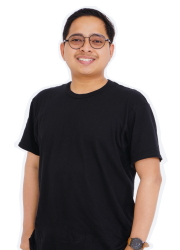
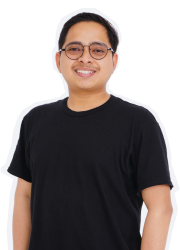
update content to all pages

diff --git a/article.html b/article.html
@@ -4,7 +4,7 @@
 <head>
   <meta charset="UTF-8">
   <meta http-equiv="X-UA-Compatible" content="IE=edge">
-  <title>Bentofolio - Bootstrap Personal Portfolio Template</title>
+  <title>Azrul'sPortfolio</title>
   <meta name="description" content="Bentofolio - Bootstrap Personal Portfolio Template">
   <meta name="viewport" content="width=device-width, initial-scale=1">
 
@@ -35,7 +35,7 @@
                     d="M0 1.5C0 1.10218 0.158035 0.720644 0.43934 0.43934C0.720644 0.158035 1.10218 0 1.5 0L9 0C9.39782 0 9.77936 0.158035 10.0607 0.43934C10.342 0.720644 10.5 1.10218 10.5 1.5V22.5C10.5 22.8978 10.342 23.2794 10.0607 23.5607C9.77936 23.842 9.39782 24 9 24H1.5C1.10218 24 0.720644 23.842 0.43934 23.5607C0.158035 23.2794 0 22.8978 0 22.5V1.5ZM13.5 1.5C13.5 1.10218 13.658 0.720644 13.9393 0.43934C14.2206 0.158035 14.6022 0 15 0L22.5 0C22.8978 0 23.2794 0.158035 23.5607 0.43934C23.842 0.720644 24 1.10218 24 1.5V9C24 9.39782 23.842 9.77936 23.5607 10.0607C23.2794 10.342 22.8978 10.5 22.5 10.5H15C14.6022 10.5 14.2206 10.342 13.9393 10.0607C13.658 9.77936 13.5 9.39782 13.5 9V1.5ZM13.5 15C13.5 14.6022 13.658 14.2206 13.9393 13.9393C14.2206 13.658 14.6022 13.5 15 13.5H22.5C22.8978 13.5 23.2794 13.658 23.5607 13.9393C23.842 14.2206 24 14.6022 24 15V22.5C24 22.8978 23.842 23.2794 23.5607 23.5607C23.2794 23.842 22.8978 24 22.5 24H15C14.6022 24 14.2206 23.842 13.9393 23.5607C13.658 23.2794 13.5 22.8978 13.5 22.5V15Z"
                     class="logo-icon" />
                 </svg>
-                <span>Bento<span class="primary">Folio</span></span>
+                <span>Azrul's<span class="primary">Portfolio</span></span>
               </a>
             </div>
             <div class="navbar-main d-flex flex-grow-1">
@@ -46,7 +46,7 @@
                       d="M0 1.5C0 1.10218 0.158035 0.720644 0.43934 0.43934C0.720644 0.158035 1.10218 0 1.5 0L9 0C9.39782 0 9.77936 0.158035 10.0607 0.43934C10.342 0.720644 10.5 1.10218 10.5 1.5V22.5C10.5 22.8978 10.342 23.2794 10.0607 23.5607C9.77936 23.842 9.39782 24 9 24H1.5C1.10218 24 0.720644 23.842 0.43934 23.5607C0.158035 23.2794 0 22.8978 0 22.5V1.5ZM13.5 1.5C13.5 1.10218 13.658 0.720644 13.9393 0.43934C14.2206 0.158035 14.6022 0 15 0L22.5 0C22.8978 0 23.2794 0.158035 23.5607 0.43934C23.842 0.720644 24 1.10218 24 1.5V9C24 9.39782 23.842 9.77936 23.5607 10.0607C23.2794 10.342 22.8978 10.5 22.5 10.5H15C14.6022 10.5 14.2206 10.342 13.9393 10.0607C13.658 9.77936 13.5 9.39782 13.5 9V1.5ZM13.5 15C13.5 14.6022 13.658 14.2206 13.9393 13.9393C14.2206 13.658 14.6022 13.5 15 13.5H22.5C22.8978 13.5 23.2794 13.658 23.5607 13.9393C23.842 14.2206 24 14.6022 24 15V22.5C24 22.8978 23.842 23.2794 23.5607 23.5607C23.2794 23.842 22.8978 24 22.5 24H15C14.6022 24 14.2206 23.842 13.9393 23.5607C13.658 23.2794 13.5 22.8978 13.5 22.5V15Z"
                       class="logo-icon" />
                   </svg>
-                  <span>Bento<span class="primary">Folio</span></span>
+                  <span>Azrul's<span class="primary">Portfolio</span></span>
                 </a>
               </div>
               <ul class="navbar-info mx-auto">
@@ -213,16 +213,16 @@
               <div class="card profile-card">
                 <div class="card-body">
                   <div class="image text-center">
-                    <img src="assets/img/images/profile.png" alt="profile">
+                    <img src="assets/img/images/azrul-photo.png" alt="azrul-photo">
                   </div>
                   <div class="text">
-                    <h3 class="card-title">Cris Rayaan 👋</h3>
-                    <p>A Passionate <span>Full Stack Developer</span> 🖥 & <span>Product Designer</span> having
-                      <span>12
-                        years</span> of Experiences over 24+
-                      Country Worldwide.</p>
+                    <h3 class="card-title">Hazrul Aswad 👋</h3>
+                    <p>A Passionate <span>Product Designer</span> 🖥 & <span>Design Mentor</span> that having more than
+                      <span>4
+                        years</span> of working experiences over some
+                      companies and institutions. Currently I'm diving into front-end coding ⚙</p>
                     <div class="common-button-groups">
-                      <a class="btn btn-call" href="#">
+                      <a class="btn btn-call" href="https://wa.me/6285810882584">
                         <svg class="icon" width="25" height="24" viewBox="0 0 25 24" fill="none"
                           xmlns="http://www.w3.org/2000/svg">
                           <path
@@ -234,27 +234,22 @@
                           <path d="M15.5 3C17.0913 3 18.6174 3.63214 19.7426 4.75736C20.8679 5.88258 21.5 7.4087 21.5 9"
                             stroke="white" stroke-width="1.5" stroke-linecap="round" stroke-linejoin="round" />
                         </svg>
-                        Book A call
+                        Reach Out
                       </a>
-                      <button class="btn btn-copy" data-clipboard-text="example@example.com">
-                        <svg class="icon" width="24" height="24" viewBox="0 0 24 24" fill="none"
-                          xmlns="http://www.w3.org/2000/svg">
-                          <path
-                            d="M8 10C8 9.46957 8.21071 8.96086 8.58579 8.58579C8.96086 8.21071 9.46957 8 10 8H18C18.5304 8 19.0391 8.21071 19.4142 8.58579C19.7893 8.96086 20 9.46957 20 10V18C20 18.5304 19.7893 19.0391 19.4142 19.4142C19.0391 19.7893 18.5304 20 18 20H10C9.46957 20 8.96086 19.7893 8.58579 19.4142C8.21071 19.0391 8 18.5304 8 18V10Z"
-                            stroke-width="1.5" stroke-linecap="round" stroke-linejoin="round" />
-                          <path
-                            d="M16 8V6C16 5.46957 15.7893 4.96086 15.4142 4.58579C15.0391 4.21071 14.5304 4 14 4H6C5.46957 4 4.96086 4.21071 4.58579 4.58579C4.21071 4.96086 4 5.46957 4 6V14C4 14.5304 4.21071 15.0391 4.58579 15.4142C4.96086 15.7893 5.46957 16 6 16H8"
-                            stroke-width="1.5" stroke-linecap="round" stroke-linejoin="round" />
+                      <button class="btn btn-copy" data-clipboard-text="azrulartistik9@gmail.com">
+                        <svg class="icon" width="24" height="24" viewBox="0 0 24 24" fill="none" xmlns="http://www.w3.org/2000/svg">
+                          <path d="M8 10C8 9.46957 8.21071 8.96086 8.58579 8.58579C8.96086 8.21071 9.46957 8 10 8H18C18.5304 8 19.0391 8.21071 19.4142 8.58579C19.7893 8.96086 20 9.46957 20 10V18C20 18.5304 19.7893 19.0391 19.4142 19.4142C19.0391 19.7893 18.5304 20 18 20H10C9.46957 20 8.96086 19.7893 8.58579 19.4142C8.21071 19.0391 8 18.5304 8 18V10Z" stroke-width="1.5" stroke-linecap="round" stroke-linejoin="round" />
+                          <path d="M16 8V6C16 5.46957 15.7893 4.96086 15.4142 4.58579C15.0391 4.21071 14.5304 4 14 4H6C5.46957 4 4.96086 4.21071 4.58579 4.58579C4.21071 4.96086 4 5.46957 4 6V14C4 14.5304 4.21071 15.0391 4.58579 15.4142C4.96086 15.7893 5.46957 16 6 16H8" stroke-width="1.5" stroke-linecap="round" stroke-linejoin="round" />
                         </svg>
                         Copy Email
                       </button>
                     </div>
                     <div class="social-media-icon">
                       <ul class="list-unstyled">
-                        <li><a href="#"><i class="fab fa-facebook"></i></a></li>
-                        <li><a href="#"><i class="fab fa-pinterest"></i></a></li>
-                        <li><a href="#"><i class="fab fa-github"></i></a></li>
-                        <li><a href="#"><i class="fab fa-youtube"></i></a></li>
+                        <li><a href="#"><i class="fab fa-dribbble"></i></a></li>
+                        <li><a href="https://medium.com/@azrulartistik"><i class="fab fa-medium"></i></a></li>
+                        <li><a href="https://github.com/azrulartistik"><i class="fab fa-github"></i></a></li>
+                        <li><a href="https://www.youtube.com/@mentorazrul"><i class="fab fa-youtube"></i></a></li>
                       </ul>
                     </div>
                   </div>
@@ -385,7 +380,7 @@
                         </div>
                       </div>
                       <div class="leave-comments-area">
-                        <h2 class="main-common-title">Leave a Comment
+                        <h2 class="main-common-title">Leave a Feedback
                         </h2>
                         <div class="comments-box">
                           <div class="row gx-3">
@@ -403,14 +398,14 @@
                             </div>
                             <div class="col-md-12">
                               <div class="mb-4">
-                                <label class="form-label">Comment</label>
+                                <label class="form-label">Feedback</label>
                                 <textarea class="form-control shadow-none" rows="4"
                                   placeholder="Type details about your inquiry"></textarea>
                               </div>
                             </div>
                             <div class="col-md-12">
                               <button class="submit-btn" type="submit">
-                                Post Comment
+                                Post Feedback
                                 <svg class="icon" width="20" height="20" viewBox="0 0 20 20" fill="none"
                                   xmlns="http://www.w3.org/2000/svg">
                                   <path d="M17.5 11.6665V6.6665H12.5" stroke="white" stroke-width="1.5"
@@ -455,7 +450,7 @@
     <footer class="footer-area">
       <div class="container">
         <div class="text text-center">
-          <p>@ BentoFolio 2024, Design By <a href="#">MarvelTheme</a></p>
+          <p>@ azrul's portfolio 2024, Design By <a href="https://www.linkedin.com/in/uxbyazrul/">azrulartistik</a> <i>(last update on Dec 2024)</i></p>
         </div>
       </div>
     </footer>

diff --git a/about.html b/about.html
@@ -272,7 +272,7 @@
                   <div class="top-info">
                     <div class="text">
                       <h1 class="main-title">Hi, This Is <span>Hazrul Aswad</span> 👋</h1>
-                      <p>A Passionate <b>Product Designer, Design Mentor, and aspiring Front-End Developer</b>.  I create visually engaging, educational digital experiences for curious learners, blending design and coding to inspire growth and creativity.
+                      <p>A <b>dedicated product Designer</b> with experience crafting intuitive and visually engaging digital experiences. My work centers around user-driven design, where usability holds equal weight with intentional aesthetics to create human-focused, meaningful products. I am also able to work effortlessly to produce something new from creative thought Processes with tremendous opportunities
                     </div>
                     <div class="available-btn">
                       <span><i class="fas fa-circle"></i> Available For Hire</span>
@@ -750,7 +750,7 @@
     <footer class="footer-area">
       <div class="container">
         <div class="text text-center">
-          <p>@ azrul's portfolio 2024, Design By <a href="https://www.linkedin.com/in/uxbyazrul/">azrulartistik</a></p>
+          <p>@ azrul's portfolio 2024, Design By <a href="https://www.linkedin.com/in/uxbyazrul/">azrulartistik</a> <i>(last update on Dec 2024)</i></p>
         </div>
       </div>
     </footer>

diff --git a/services.html b/services.html
@@ -272,8 +272,7 @@
                   <div class="top-info">
                     <div class="text">
                       <h1 class="main-title">Services I <span>Offered</span></h1>
-                      <p>Transforming Ideas into Innovative Reality, Elevate Your Vision with Our Expert <b>Product
-                          Design and Development</b> Services!</p>
+                      <p>Transforming your vision into intuitive, user-centered designs. Let’s create impactful digital experiences together!
                     </div>
                     <div class="available-btn">
                       <span><i class="fas fa-circle"></i> Available For Hire</span>
@@ -860,7 +859,7 @@
     <footer class="footer-area">
       <div class="container">
         <div class="text text-center">
-          <p>@ azrul's portfolio 2024, Design By <a href="https://www.linkedin.com/in/uxbyazrul/">azrulartistik</a></p>
+          <p>@ azrul's portfolio 2024, Design By <a href="https://www.linkedin.com/in/uxbyazrul/">azrulartistik</a> <i>(last update on Dec 2024)</i></p>
         </div>
       </div>
     </footer>

diff --git a/blog.html b/blog.html
@@ -462,7 +462,7 @@
     <footer class="footer-area">
       <div class="container">
         <div class="text text-center">
-          <p>@ azrul's portfolio 2024, Design By <a href="https://www.linkedin.com/in/uxbyazrul/">azrulartistik</a></p>
+          <p>@ azrul's portfolio 2024, Design By <a href="https://www.linkedin.com/in/uxbyazrul/">azrulartistik</a> <i>(last update on Dec 2024)</i></p>
         </div>
       </div>
     </footer>

diff --git a/contact.html b/contact.html
@@ -573,7 +573,7 @@
     <footer class="footer-area">
       <div class="container">
         <div class="text text-center">
-          <p>@ azrul's portfolio 2024, Design By <a href="https://www.linkedin.com/in/uxbyazrul/">azrulartistik</a></p>
+          <p>@ azrul's portfolio 2024, Design By <a href="https://www.linkedin.com/in/uxbyazrul/">azrulartistik</a> <i>(last update on Dec 2024)</i></p>
         </div>
       </div>
     </footer>

diff --git a/portfolio-details.html b/portfolio-details.html
@@ -444,7 +444,7 @@
     <footer class="footer-area">
       <div class="container">
         <div class="text text-center">
-          <p>@ azrul's portfolio 2024, Design By <a href="https://www.linkedin.com/in/uxbyazrul/">azrulartistik</a></p>
+          <p>@ azrul's portfolio 2024, Design By <a href="https://www.linkedin.com/in/uxbyazrul/">azrulartistik</a> <i>(last update on Dec 2024)</i></p>
         </div>
       </div>
     </footer>

diff --git a/portfolio.html b/portfolio.html
@@ -456,7 +456,7 @@
     <footer class="footer-area">
       <div class="container">
         <div class="text text-center">
-          <p>@ azrul's portfolio 2024, Design By <a href="https://www.linkedin.com/in/uxbyazrul/">azrulartistik</a></p>
+          <p>@ azrul's portfolio 2024, Design By <a href="https://www.linkedin.com/in/uxbyazrul/">azrulartistik</a> <i>(last update on Dec 2024)</i></p>
         </div>
       </div>
     </footer>

diff --git a/index.html b/index.html
@@ -650,7 +650,7 @@
     <footer class="footer-area">
       <div class="container">
         <div class="text text-center">
-          <p>@ azrulportfolio 2024, Design By <a href="https://www.linkedin.com/in/uxbyazrul/">azrulartistik</a></p>
+          <p>@ azrul's portfolio 2024, Design By <a href="https://www.linkedin.com/in/uxbyazrul/">azrulartistik</a> <i>(last update on Dec 2024)</i></p>
         </div>
       </div>
     </footer>
